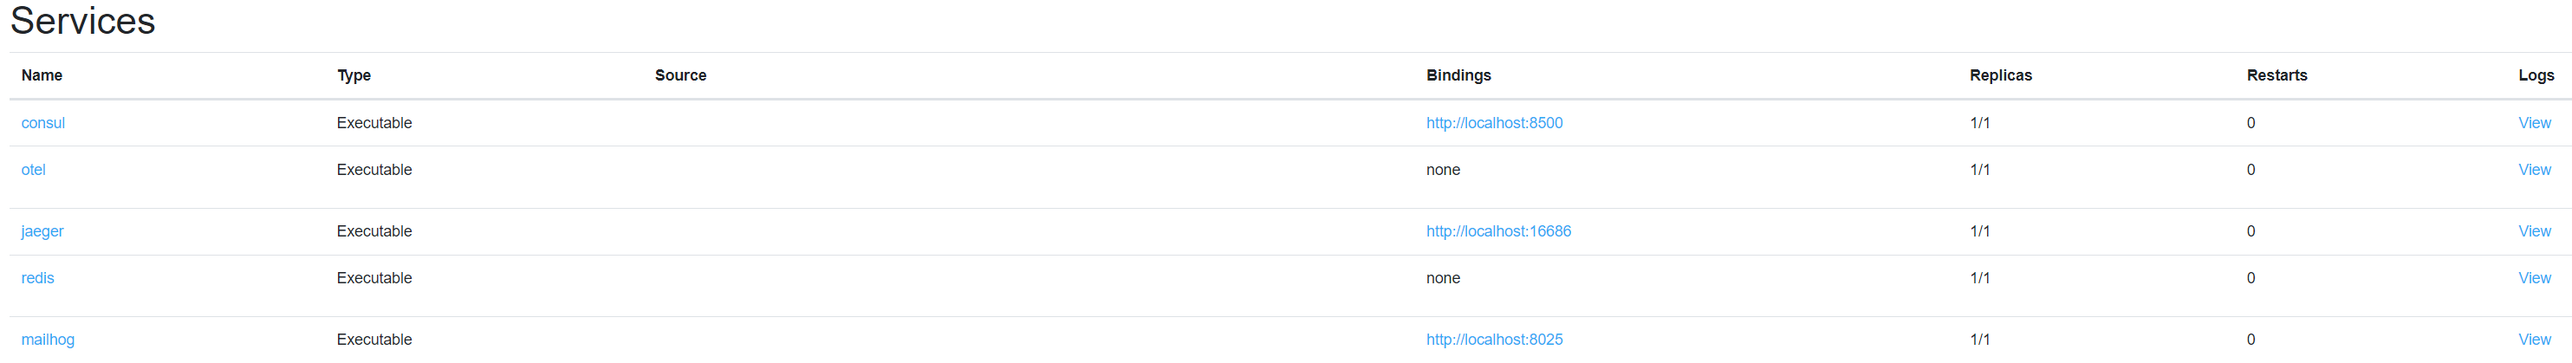
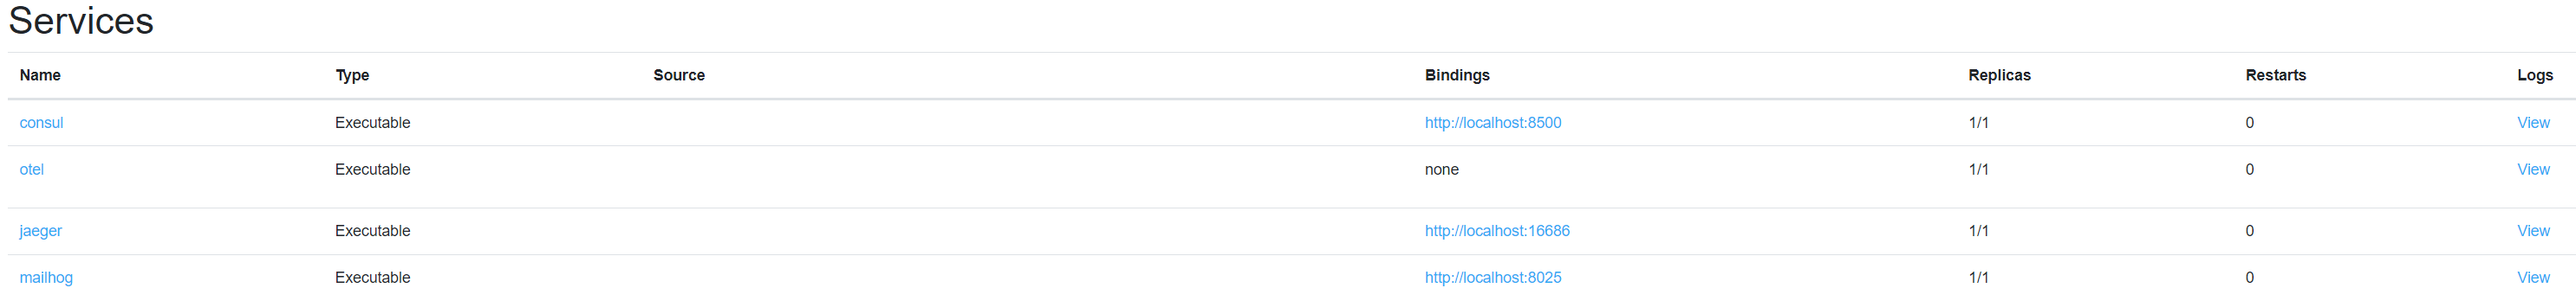
assignment 2 docs

diff --git a/src/assignments/assignment-3/MailApi/Program.cs b/src/assignments/assignment-3/MailApi/Program.cs
@@ -1,5 +1,3 @@
-using Dapr.Client;
-
 var builder = WebApplication.CreateBuilder(args);
 
 // Add services to the container.
@@ -17,13 +15,12 @@ if (app.Environment.IsDevelopment())
     app.UseSwagger();
     app.UseSwaggerUI();
 }
+app.MapHealthChecks("/health");
 
 app.MapPost("/cronmail", async () =>
 {
     return "Working!";
 })
 .WithName("cronmail");
-
-app.MapHealthChecks("/health");
 
 app.Run();

diff --git a/src/assignments/assignment-5/MailApi/Program.cs b/src/assignments/assignment-5/MailApi/Program.cs
@@ -17,6 +17,7 @@ if (app.Environment.IsDevelopment())
     app.UseSwagger();
     app.UseSwaggerUI();
 }
+app.MapHealthChecks("/health");
 
 app.MapPost("/cronmail", async () =>
 {
@@ -36,8 +37,6 @@ app.MapPost("/cronmail", async () =>
     await daprClient.InvokeBindingAsync("dapr-smtp", "create", body, metadata);
 })
 .WithName("cronmail");
-
-app.MapHealthChecks("/health");
 
 app.Run();
 

diff --git a/src/assignments/assignment-6/MailApi/Program.cs b/src/assignments/assignment-6/MailApi/Program.cs
@@ -17,6 +17,7 @@ if (app.Environment.IsDevelopment())
     app.UseSwagger();
     app.UseSwaggerUI();
 }
+app.MapHealthChecks("/health");
 
 app.MapPost("/cronmail", async () =>
 {
@@ -36,8 +37,6 @@ app.MapPost("/cronmail", async () =>
     await daprClient.InvokeBindingAsync("dapr-smtp", "create", body, metadata);
 })
 .WithName("cronmail");
-
-app.MapHealthChecks("/health");
 
 app.Run();
 

diff --git a/src/assignments/assignment-7/MailApi/Program.cs b/src/assignments/assignment-7/MailApi/Program.cs
@@ -17,6 +17,7 @@ if (app.Environment.IsDevelopment())
     app.UseSwagger();
     app.UseSwaggerUI();
 }
+app.MapHealthChecks("/health");
 
 app.MapPost("/cronmail", async () =>
 {
@@ -36,8 +37,6 @@ app.MapPost("/cronmail", async () =>
     await daprClient.InvokeBindingAsync("dapr-smtp", "create", body, metadata);
 })
 .WithName("cronmail");
-
-app.MapHealthChecks("/health");
 
 app.Run();
 

diff --git a/src/assignments/final/MailApi/Program.cs b/src/assignments/final/MailApi/Program.cs
@@ -17,6 +17,7 @@ if (app.Environment.IsDevelopment())
     app.UseSwagger();
     app.UseSwaggerUI();
 }
+app.MapHealthChecks("/health");
 
 app.MapPost("/cronmail", async () =>
 {
@@ -36,8 +37,6 @@ app.MapPost("/cronmail", async () =>
     await daprClient.InvokeBindingAsync("dapr-smtp", "create", body, metadata);
 })
 .WithName("cronmail");
-
-app.MapHealthChecks("/health");
 
 app.Run();
 

diff --git a/src/assignments/assignment-4/MailApi/Program.cs b/src/assignments/assignment-4/MailApi/Program.cs
@@ -17,6 +17,7 @@ if (app.Environment.IsDevelopment())
     app.UseSwagger();
     app.UseSwaggerUI();
 }
+app.MapHealthChecks("/health");
 
 app.MapPost("/cronmail", async () =>
 {
@@ -37,7 +38,7 @@ app.MapPost("/cronmail", async () =>
 })
 .WithName("cronmail");
 
-app.MapHealthChecks("/health");
+
 
 app.Run();
 

diff --git a/docs/assignment-2.md b/docs/assignment-2.md
@@ -1,9 +1,109 @@
 # Assignment 2
+
 ## Goal
+
+The purpose of this assignment is to create a Mail API with a health and cron job endpoint.
+
 ## Steps
 
-- create empty .NET 6 project
-- create minimal API
-- add health check on /health endpoint
-- create POST cronjob endpoint
-- run the MaiApi using dotnet run
+### Prerequisite
+
+Open the assignment-2 VS Code workspace in the workspaces folder
+
+### Step 1.
+
+Lets open a terminal. 
+Right click in the 'src' folder and choose 'Open in Integrated Terminal'
+
+![open terminal](../docs/images/assignment2_open_terminal.png)
+
+A new terminal window (propably Powershell) will be opened with 'assignment-2' as the working directory.
+
+
+### Step 2. Create new ASP.NET Project
+
+Create a new empty ASP.NET Project with the name 'MailApi' using this command from the terminal:
+
+```dotnet new web -n MailApi```
+
+The project will be scaffolded:
+
+![open terminal](../docs/images/assignment2_create_project_result.png)
+
+Now add the package reference using this command from the terminal:
+
+```dotnet add MailApi package Swashbuckle.AspNetCore```
+
+![open terminal](../docs/images/assignment2_add_swashbuckle.png)
+
+Open the MailApi/Properties/launchSettings.json file and change the MailApi profile so the "applicationUrl" ports are set to 7138 (https) and 5200 (http):
+
+```json
+"profiles": {
+    "MailApi": {
+      "commandName": "Project",
+      "dotnetRunMessages": true,
+      "launchBrowser": true,
+      "applicationUrl": "https://localhost:7138;http://localhost:5200",
+      "environmentVariables": {
+        "ASPNETCORE_ENVIRONMENT": "Development"
+      }
+    }
+```
+
+### Step 3. Add Swagger and Health endpoint
+
+Open the Program.cs file from the MailApi folder.
+
+Add the following 3 services to the builder before building the builder.
+```c#
+var builder = WebApplication.CreateBuilder(args);
+// Add services to the container.
+// Learn more about configuring Swagger/OpenAPI at https://aka.ms/aspnetcore/swashbuckle
+builder.Services.AddEndpointsApiExplorer();
+builder.Services.AddSwaggerGen();
+builder.Services.AddHealthChecks();
+var app = builder.Build();
+```
+Remove the ``` app.MapGet("/", () => "Hello World!"); ``` statement.
+
+After the ```app.Build``` command add this if-statement:
+```c#
+// Configure the HTTP request pipeline.
+if (app.Environment.IsDevelopment())
+{
+    app.UseSwagger();
+    app.UseSwaggerUI();
+}
+app.MapHealthChecks("/health");
+```
+
+
+### Step 4. Create the POST cronjob endpoint
+
+```c#
+app.MapPost("/cronmail", async () =>
+{
+    return "Working!";
+})
+.WithName("cronmail");
+```
+
+### Step 5. Run the MailApi
+
+Run the MailApi using this command from the terminal:
+
+```dotnet run --project MailApi```
+
+Check that :
+- the Health endpoint is working : http://localhost:5200/health
+- the Swagger endpoint is working: http://localhost:5200/swagger/index.html
+
+In the Swagger UI,
+1. click on POST /cronmail
+2. click the 'Try it out' button
+3. click on 'Execute'
+4. check that the response code is 200 and the body contains the string 'Working!'
+
+
+![test](../docs/images/assignment2_app_test.png)

diff --git a/docs/assignment-1.md b/docs/assignment-1.md
@@ -1,6 +1,6 @@
 # Assignment 1
 ## Goal
-The purpose of this assignment  is to setup a working set of services which are prerequisites in order to be able to create microservices. 
+The purpose of this assignment is to setup a working set of services which are prerequisites in order to be able to create microservices. 
 
 The following services will be setup:
 
@@ -23,7 +23,6 @@ Start the following executalabes from the tools directory by defining them as a 
 |consul|```agent --dev```|8500|
 |otel|```--config ../src/otel.yaml```|n/a|
 |jaeger|```--config-file ../src/jaeger.yaml --log-level debug```|16686|
-|redis|n/a|n/a|
 |mailhog|n/a|8025|
 
 Make sure that:
@@ -45,7 +44,7 @@ services:
     protocol: http
 ```
 
-Now run Tye pressing F5 or choose 'Launch Tye' on the 'Run an Debug' window (Ctrl-Shift-D)
+Now run by Tye pressing F5 or choose 'Launch Tye' on the 'Run an Debug' window (Ctrl-Shift-D)
 
 ### Step 2.
 Open your browser and go to the Tye dashboard: http://127.0.0.1:8000/
@@ -71,5 +70,7 @@ The services running in Tye and the links to http bindings and logs can also be 
 ![tye extension](../docs/images/assignment1_tye_extension.png)
 
 When hovering over the dapr-workshop Tye application can click on the 'meter cog' to access the Tye dashboard. When hovering over a service you will see two icons with a link appear: one the according dashboard and one the according logs.
+
+![tye extension](../docs/images/assignment1_tye_extension_browse.png)
 
 Congrats! You now have a working base solution outline for running distributed applications!
